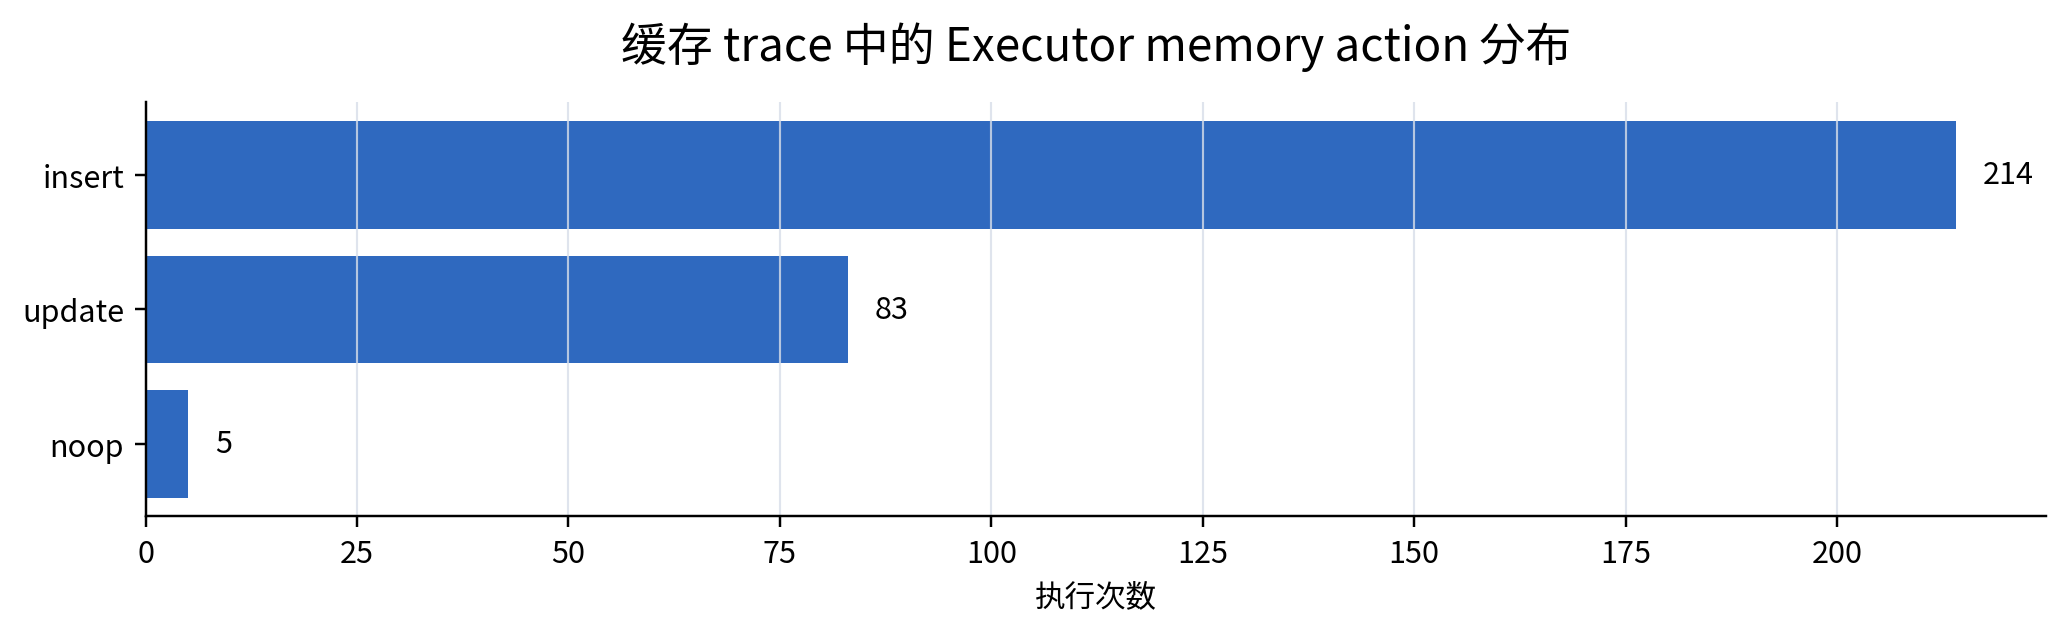
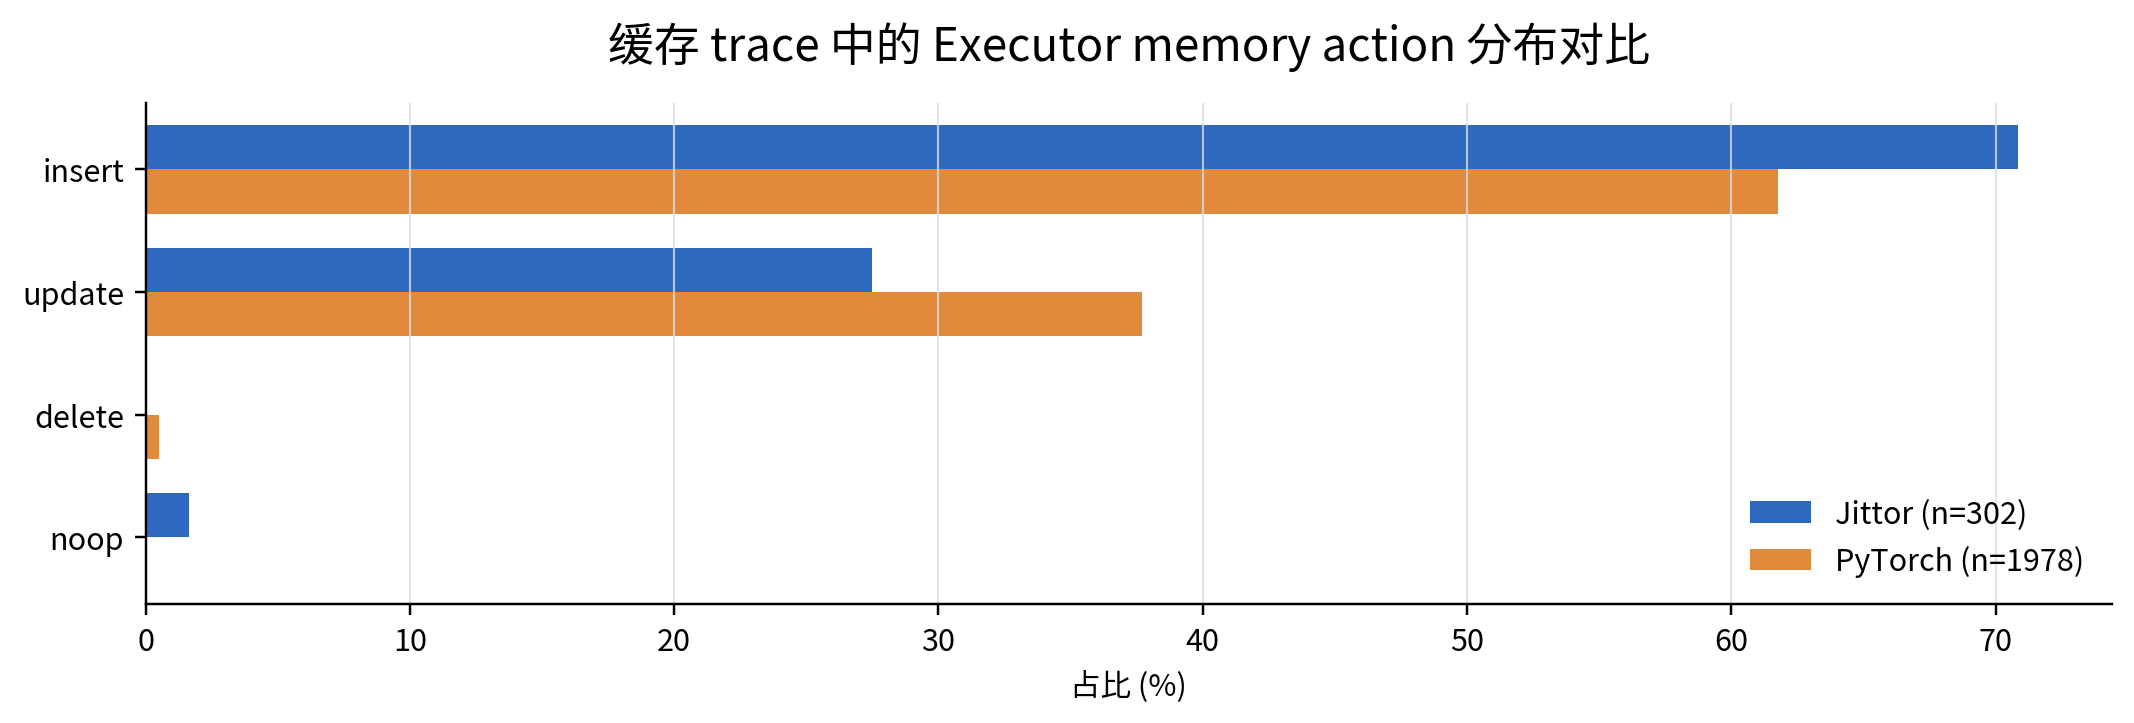
Compare behavior distributions across backends

diff --git a/scripts/generate_readme_figures.py b/scripts/generate_readme_figures.py
@@ -157,35 +157,54 @@ def collect_distribution(trace_path: Path) -> tuple[Counter, Counter]:
     return skills, actions
 
 
-def plot_counter(counter: Counter, title: str, xlabel: str, out: Path, top_n: int = 10) -> None:
-    items = counter.most_common(top_n)
-    labels = [x[0] for x in items][::-1]
-    values = [x[1] for x in items][::-1]
-    fig, ax = plt.subplots(figsize=(9.5, max(3.0, 0.45 * len(labels) + 1.1)))
-    bars = ax.barh(labels, values, color=BLUE)
+def plot_distribution_compare(
+    jittor_counter: Counter,
+    torch_counter: Counter,
+    title: str,
+    out: Path,
+    preferred_order: list[str],
+) -> None:
+    labels = [label for label in preferred_order if jittor_counter.get(label, 0) or torch_counter.get(label, 0)]
+    rest = sorted((set(jittor_counter) | set(torch_counter)) - set(labels))
+    labels.extend(rest)
+    labels = labels[::-1]
+    j_total = sum(jittor_counter.values()) or 1
+    t_total = sum(torch_counter.values()) or 1
+    j_values = [jittor_counter.get(label, 0) / j_total * 100 for label in labels]
+    t_values = [torch_counter.get(label, 0) / t_total * 100 for label in labels]
+
+    fig, ax = plt.subplots(figsize=(9.8, max(3.4, 0.5 * len(labels) + 1.2)))
+    y = list(range(len(labels)))
+    height = 0.36
+    ax.barh([i + height / 2 for i in y], j_values, height=height, color=BLUE, label=f"Jittor (n={j_total})")
+    ax.barh([i - height / 2 for i in y], t_values, height=height, color=ORANGE, label=f"PyTorch (n={t_total})")
+    ax.set_yticks(y, labels)
     ax.set_title(title, fontsize=15, fontweight="bold", pad=14)
-    ax.set_xlabel(xlabel)
+    ax.set_xlabel("占比 (%)")
     ax.grid(axis="x", color=GRID, linewidth=0.7, alpha=0.8)
+    ax.legend(frameon=False, loc="lower right")
     ax.spines[["top", "right"]].set_visible(False)
-    for bar, value in zip(bars, values):
-        ax.text(bar.get_width() + max(values) * 0.015, bar.get_y() + bar.get_height() / 2, str(value), va="center", fontsize=10)
     save(fig, out)
 
 
 def plot_offline_distributions(runs_root: Path, out_dir: Path) -> None:
-    trace = runs_root / "full-flow-jittor-evolve2" / "step_records.jsonl"
-    skills, actions = collect_distribution(trace)
-    plot_counter(
-        skills,
-        "缓存 trace 中的 Controller 技能选择分布",
-        "选择次数",
+    j_trace = runs_root / "full-flow-jittor-evolve2" / "step_records.jsonl"
+    t_trace = runs_root / "full_compare" / "torch_fixed_skill" / "controller_trace_records.jsonl"
+    j_skills, j_actions = collect_distribution(j_trace)
+    t_skills, t_actions = collect_distribution(t_trace)
+    plot_distribution_compare(
+        j_skills,
+        t_skills,
+        "缓存 trace 中的 Controller 技能选择分布对比",
         out_dir / "offline_selected_skill_distribution.png",
+        ["insert", "update", "delete", "noop"],
     )
-    plot_counter(
-        actions,
-        "缓存 trace 中的 Executor memory action 分布",
-        "执行次数",
+    plot_distribution_compare(
+        j_actions,
+        t_actions,
+        "缓存 trace 中的 Executor memory action 分布对比",
         out_dir / "offline_memory_action_distribution.png",
+        ["insert", "update", "delete", "noop"],
     )
 
 

diff --git a/README.md b/README.md
@@ -325,17 +325,17 @@ python -m jittor_controller_repro.plot_logs \
 
 ## 10. 行为分布可视化
 
-行为分布图使用 cached trace 记录生成，不重新调用 LLM API。它用于观察 Controller 是否只选择单一 skill，以及 Executor 是否能产生多类 memory actions。
+行为分布图使用 PyTorch / Jittor 的 cached trace 记录生成，不重新调用 LLM API。由于两边 trace 记录数量不同，这里使用占比而不是原始次数，重点观察两种实现的行为分布是否处于相近范围。
 
-Controller 技能选择分布：
+Controller 技能选择分布对比：
 
 ![offline selected skill distribution](assets/figures/offline_selected_skill_distribution.png)
 
-Executor memory action 分布：
+Executor memory action 分布对比：
 
 ![offline memory action distribution](assets/figures/offline_memory_action_distribution.png)
 
-可以看到，Controller 会在基础技能和 Designer 产生的新技能之间进行选择；Executor 输出仍以 insert / update 为主，少量出现 delete / noop，符合 MemoryBank 构建任务的常见操作分布。
+可以看到，Controller 会在多种候选 skill 之间进行选择；Executor 输出仍以 insert / update 为主，少量出现 delete / noop，符合 MemoryBank 构建任务的常见操作分布。
 
 ## 11. Controller-only 性能测试
 